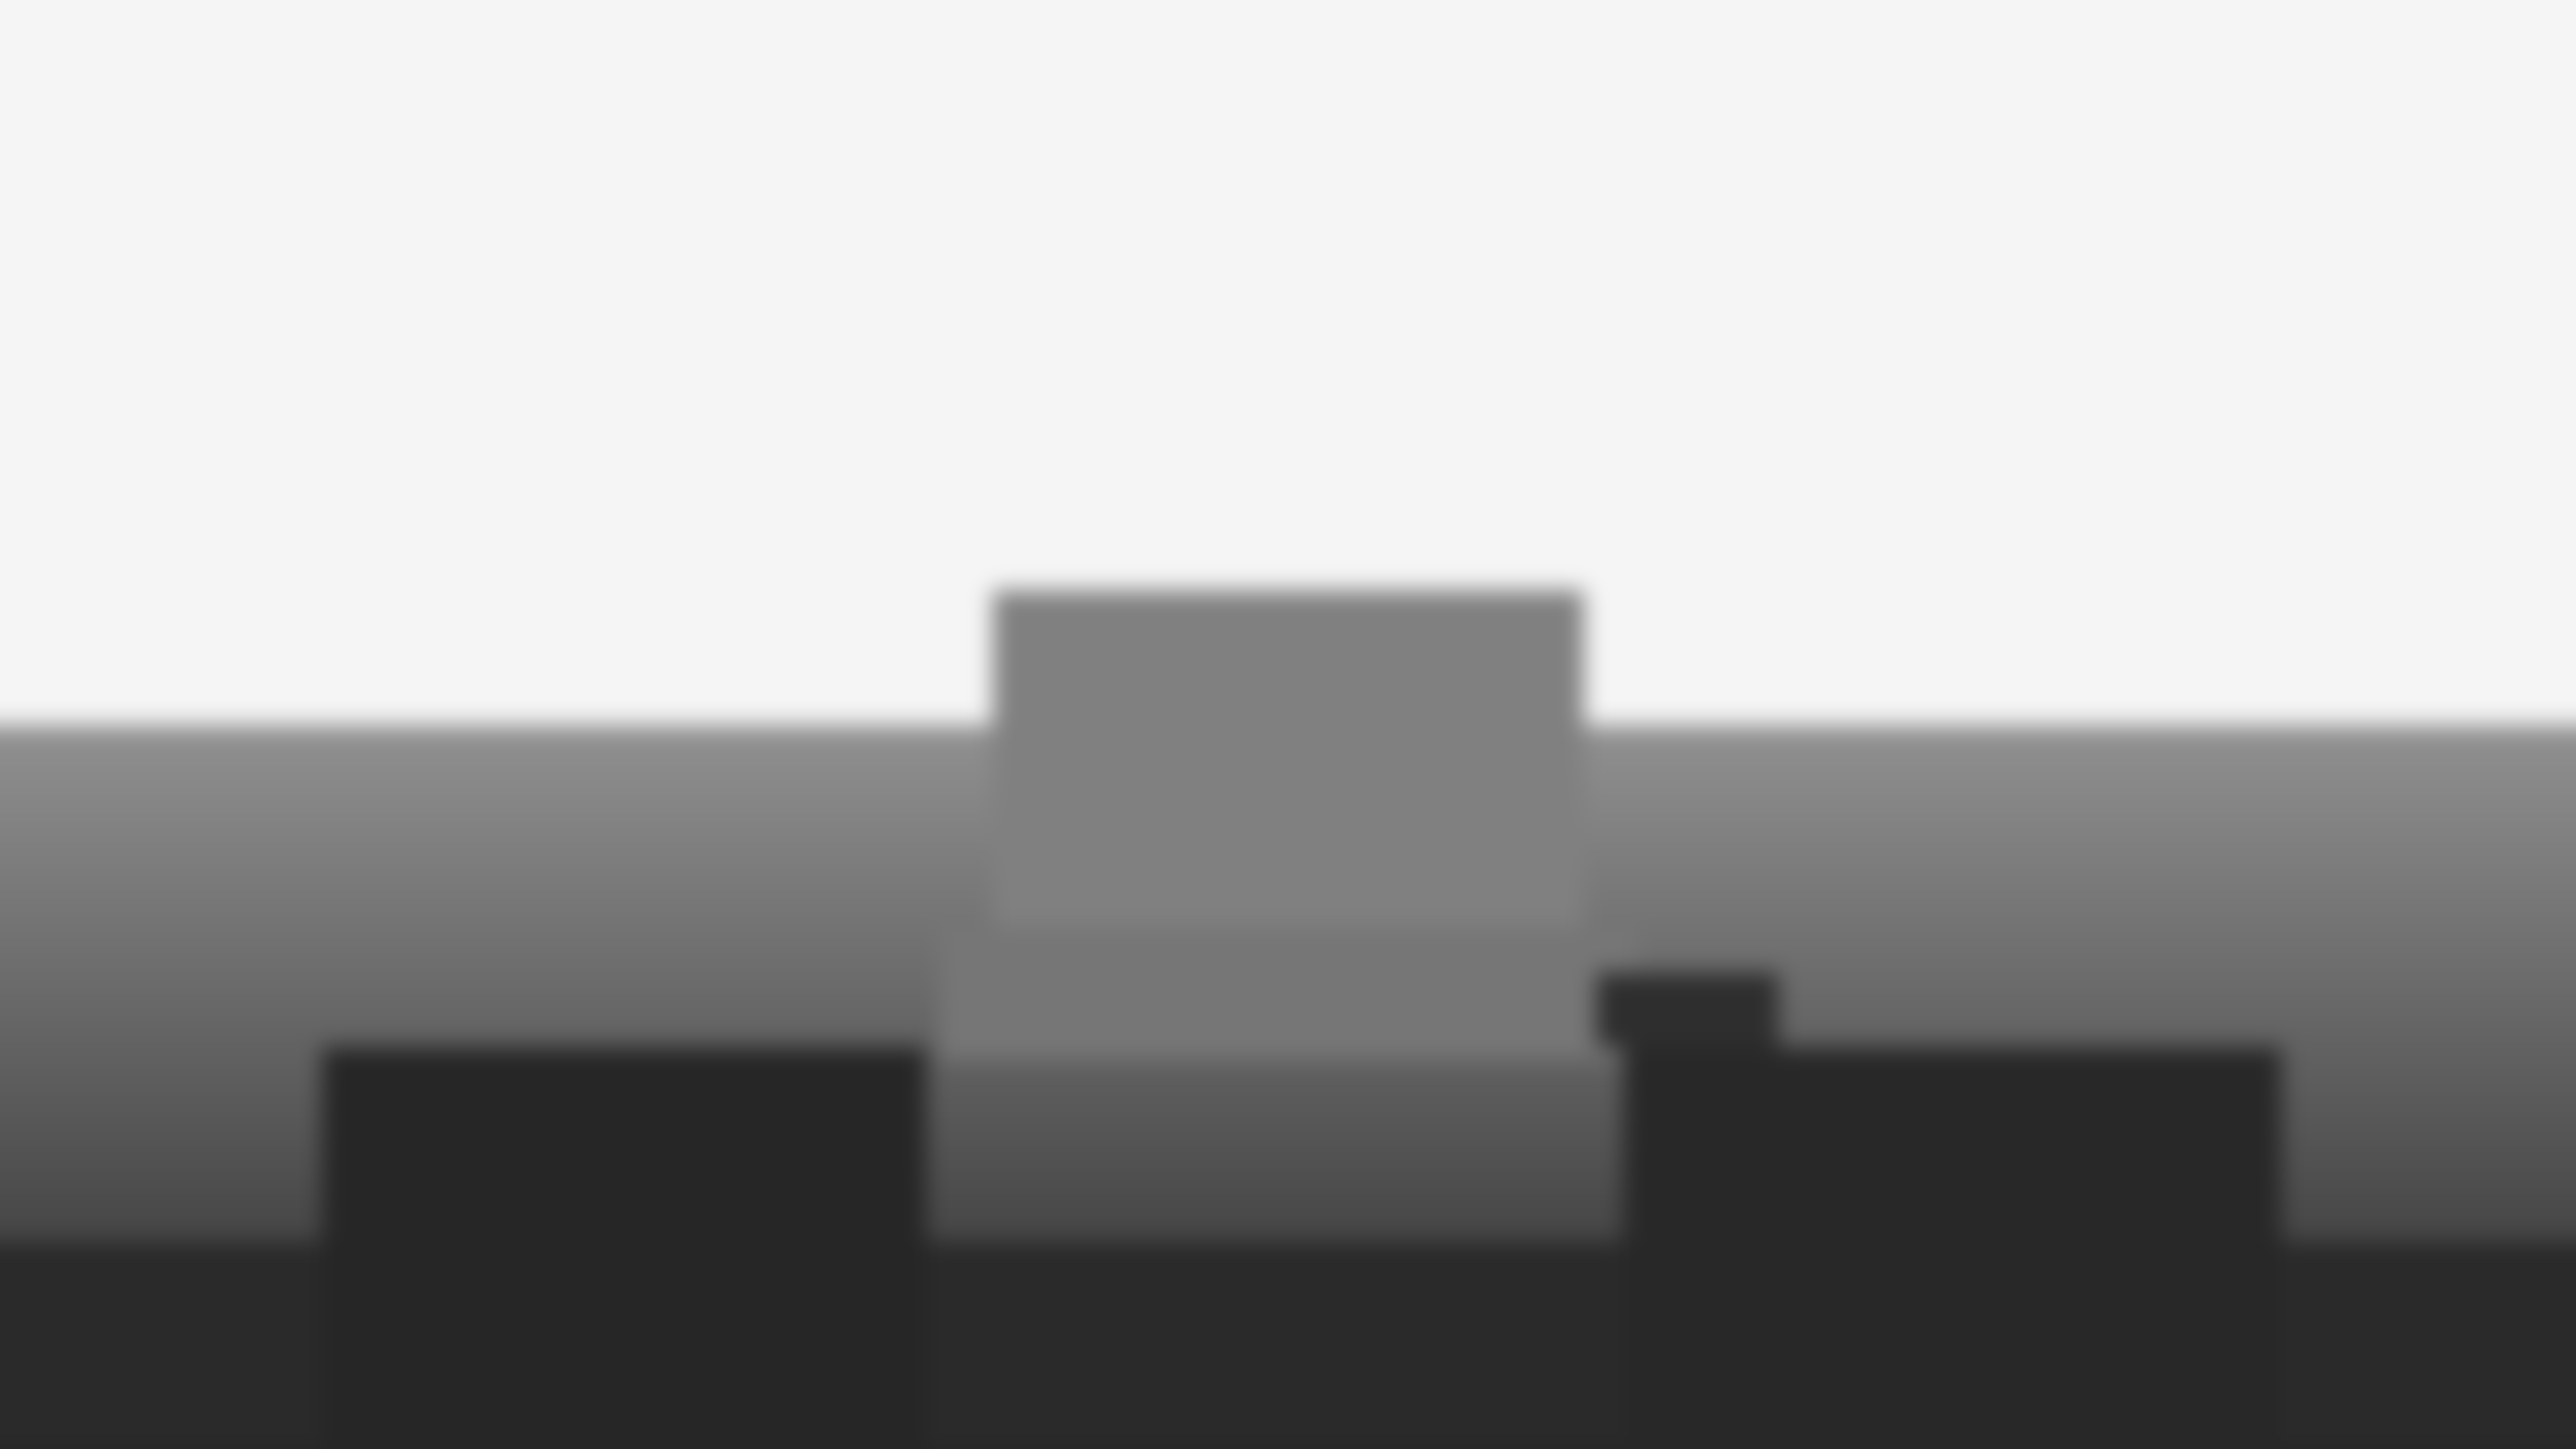
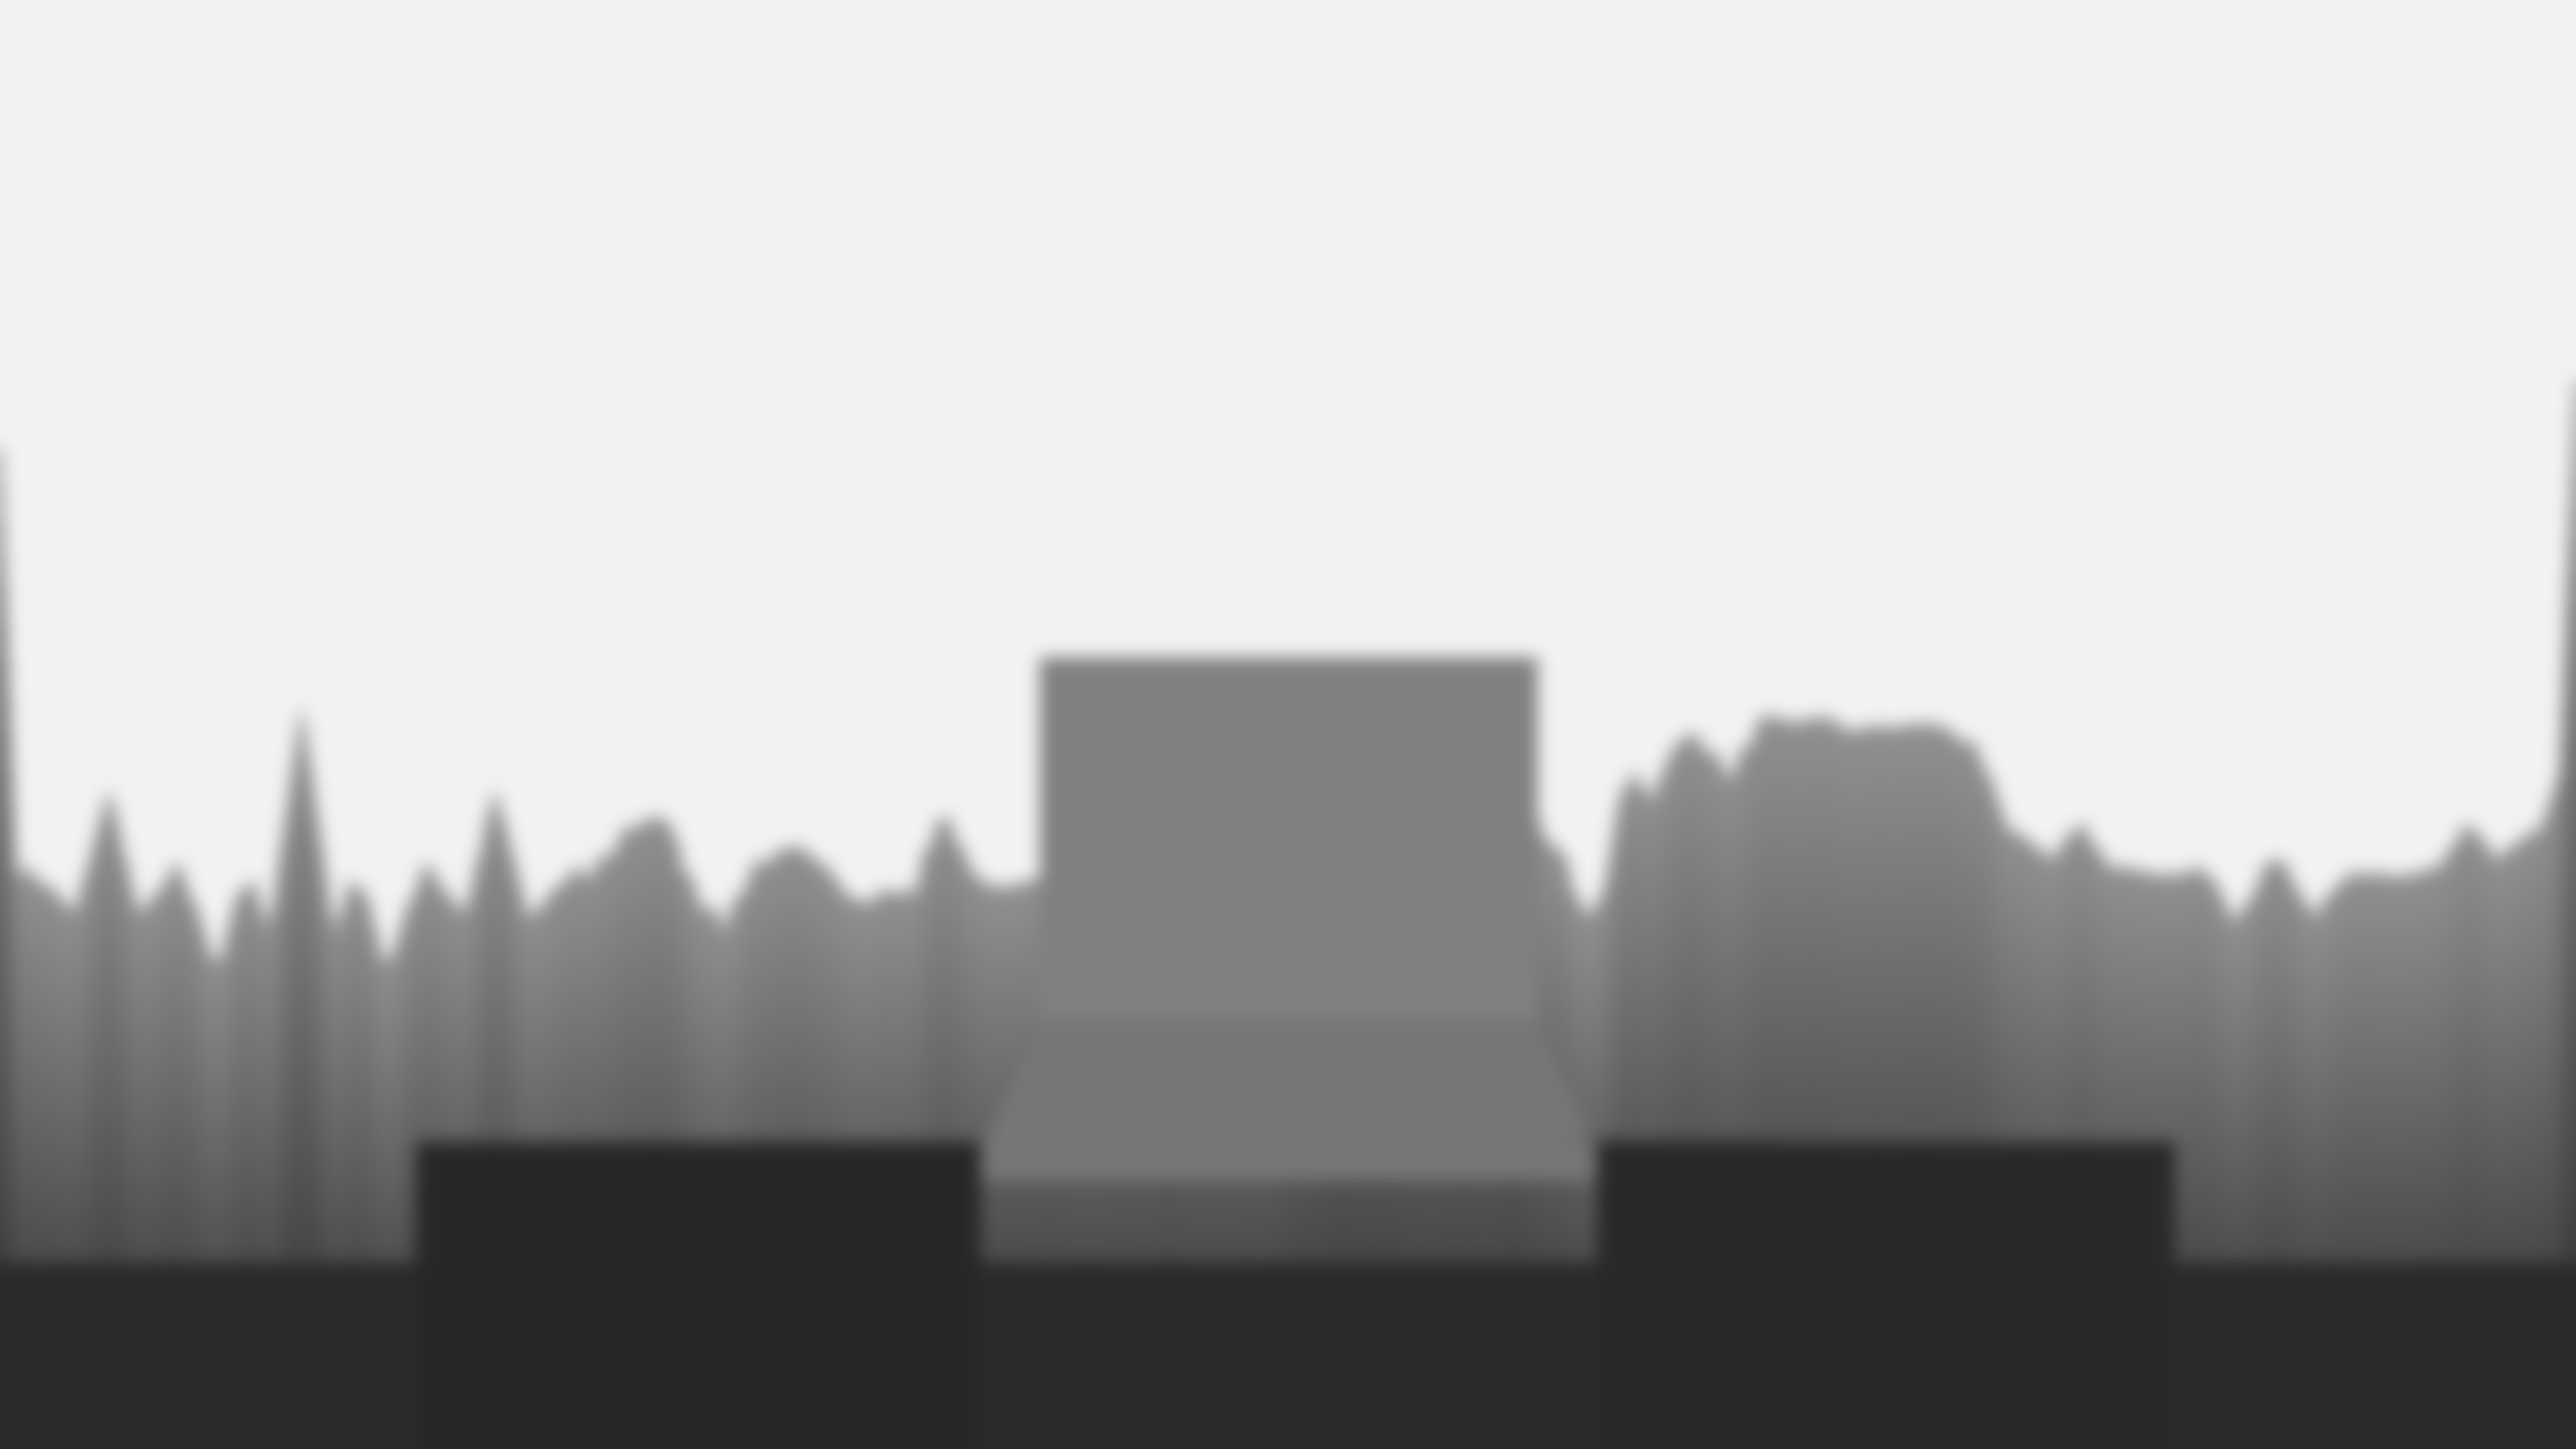
fix(scene): restore full downward desk view and deliver precision calibrated depth map

Changed region(s): [[0.0, 0.3412, 0.9688, 0.8685], [0.75, 0.2792, 1.0, 0.6514]]

diff --git a/src/core/camera-controller.js b/src/core/camera-controller.js
@@ -14,8 +14,8 @@ export class CameraController {
 
     // Límites anatómicos de movimiento de cabeza/ojos (rango panorámico ultra amplio)
     this.maxYaw = 0.88;          // Giro lateral izq / der amplio
-    this.maxPitchUp = 1.05;      // Inclinación hacia arriba ampliada (cúspides de rascacielos y cielo)
-    this.maxPitchDown = 0.72;    // Inclinación hacia abajo (escritorio y accesorios de lectura)
+    this.maxPitchUp = 1.05;      // Inclinación hacia arriba (cúspides de rascacielos y cielo abierto)
+    this.maxPitchDown = 1.05;    // Inclinación hacia abajo completa (lectura de libreta, tablet y borde del escritorio)
 
     this.sensitivity = 0.0022;
     this.lerpSpeed = 0.12;

diff --git a/src/main.js b/src/main.js
@@ -122,8 +122,8 @@ class App {
         this.preloader.updateStatus('Cargando escena 4K Ultra HD...');
       }
 
-      const sceneUrl = getAssetUrl('scenes/skyline-workstation-4k.jpg?v=outpaint-v3');
-      const depthUrl = getAssetUrl('scenes/skyline-workstation-depth.png?v=outpaint-v3');
+      const sceneUrl = getAssetUrl('scenes/skyline-workstation-4k.jpg?v=calibrated-v4');
+      const depthUrl = getAssetUrl('scenes/skyline-workstation-depth.png?v=calibrated-v4');
 
       if (this.renderer) {
         await this.renderer.loadTexture(sceneUrl, false);
